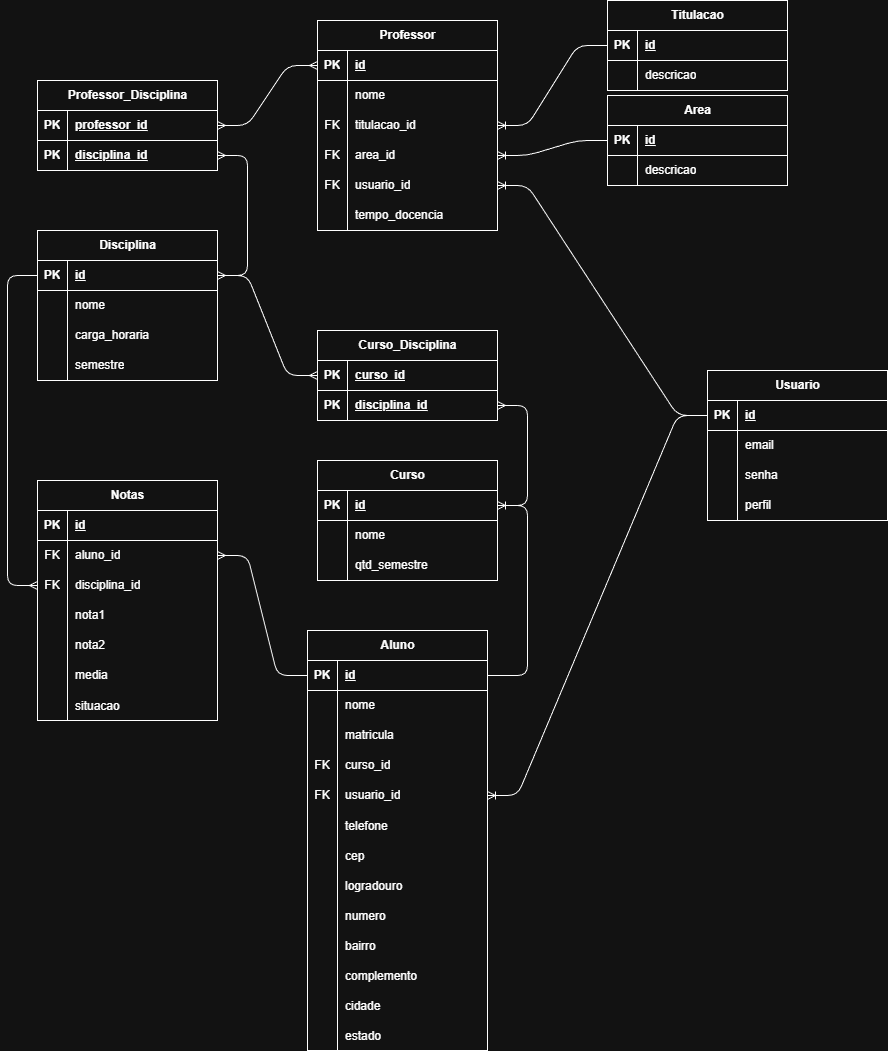
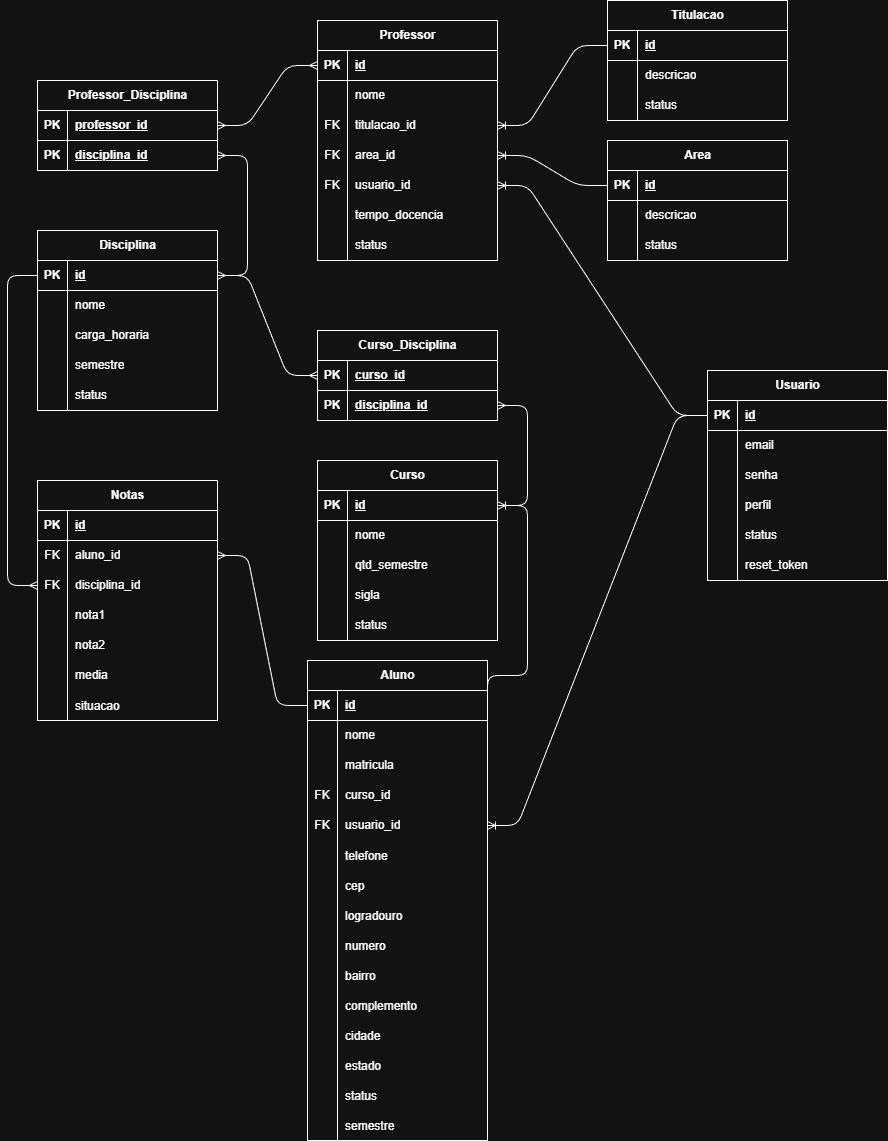
feat: atualizar dicionário de dados com novos campos e tipos para usuários, alunos, professores e disciplinas

diff --git a/docs/dicionario-dados.md b/docs/dicionario-dados.md
@@ -5,7 +5,9 @@
 | id | Int (PK) | Sim | Identificador único (Serial) |
 | email | String | Sim | E-mail para login (Unique) |
 | senha | String | Sim | Hash da senha para autenticação  |
-| perfil | String | Sim | Perfil do usuário (aluno, professor, admin)  |
+| perfil | Enum Perfil | Sim | Perfil do usuário (ALUNO, PROFESSOR, ADMIN) |
+| status | Enum STATUS | Sim | Situação do usuário (ATIVO, INATIVO) |
+| reset_token | String | Não | Token único para redefinição de senha |
 
 ## Tabela: Aluno
 
@@ -13,9 +15,9 @@
 | :--- | :--- | :--- | :--- |
 | id | Int (PK) | Sim | Identificador único do aluno  |
 | nome | String | Sim | Nome completo do aluno  |
-| matricula | String | Sim | Matrícula acadêmica única  |
+| matricula | String | Sim | Matrícula acadêmica única (Unique) |
 | curso_id | Int (FK) | Sim | Relacionamento com a tabela Curso |
-| usuario_id | Int (FK) | Sim | Relacionamento com a tabela Usuario |
+| usuario_id | Int (FK) | Sim | Relacionamento com a tabela Usuario (Unique) |
 | telefone | String | Não | Telefone de contato  |
 | cep | String | Sim | Código de Endereçamento Postal  |
 | logradouro | String | Não | Nome da rua/avenida  |
@@ -24,6 +26,8 @@
 | cidade | String | Não | Cidade  |
 | estado | String | Não | UF |
 | complemento | String | Não | Complemento do endereço |
+| status | Enum STATUS | Sim | Situação do aluno (ATIVO, INATIVO) |
+| semestre | Int | Sim | Semestre atual do aluno |
 
 ## Tabela: Professor
 
@@ -33,17 +37,19 @@
 | nome | String | Sim | Nome completo do docente  |
 | titulacao_id | Int (FK) | Sim | Relacionamento com a tabela Titulacao  |
 | area_id | Int (FK) | Sim | Relacionamento com a tabela Area  |
-| usuario_id | Int (FK) | Sim | Relacionamento com a tabela Usuario |
+| usuario_id | Int (FK) | Sim | Relacionamento com a tabela Usuario (Unique) |
 | tempo_docencia | Int | Não | Tempo de experiência em anos  |
+| status | Enum STATUS | Sim | Situação do professor (ATIVO, INATIVO) |
 
 ## Tabela: Disciplina
 
 | Campo | Tipo | Obrigatório | Descrição |
 | :--- | :--- | :--- | :--- |
 | id | Int (PK) | Sim | Identificador único da disciplina  |
-| nome | String | Sim | Nome da disciplina [cite: 60] |
+| nome | String | Sim | Nome da disciplina |
 | carga_horaria | Int | Sim | Carga horária total  |
 | semestre | Int | Sim | Semestre letivo da disciplina  |
+| status | Enum STATUS | Sim | Situação da disciplina (ATIVO, INATIVO) |
 
 ## Tabela: Notas
 
@@ -52,9 +58,9 @@
 | id | Int (PK) | Sim | Identificador único do registro  |
 | aluno_id | Int (FK) | Sim | Relacionamento com a tabela Aluno  |
 | disciplina_id | Int (FK) | Sim | Relacionamento com a tabela Disciplina  |
-| nota1 | Decimal | Não | Nota da primeira avaliação  |
-| nota2 | Decimal | Não | Nota da segunda avaliação  |
-| media | Decimal | Não | Média aritmética calculada  |
+| nota1 | Decimal(5,2) | Não | Nota da primeira avaliação  |
+| nota2 | Decimal(5,2) | Não | Nota da segunda avaliação  |
+| media | Decimal(5,2) | Não | Média aritmética calculada  |
 | situacao | String | Não | Situação final (Ex: Aprovado)  |
 
 ## Tabela: Curso
@@ -63,7 +69,9 @@
 | :--- | :--- | :--- | :--- |
 | id | Int (PK) | Sim | Identificador único do curso |
 | nome | String | Sim | Nome da graduação |
+| sigla | String | Não | Sigla do curso |
 | qtd_semestre | Int | Não | Duração total em semestres |
+| status | Enum STATUS | Sim | Situação do curso (ATIVO, INATIVO) |
 
 ## Tabela: Titulacao
 
@@ -71,6 +79,7 @@
 | :--- | :--- | :--- | :--- |
 | id | Int (PK) | Sim | Identificador único |
 | descricao | String | Sim | Descrição do título  |
+| status | Enum STATUS | Sim | Situação da titulação (ATIVO, INATIVO) |
 
 ## Tabela: Area
 
@@ -78,6 +87,7 @@
 | :--- | :--- | :--- | :--- |
 | id | Int (PK) | Sim | Identificador único |
 | descricao | String | Sim | Descrição da área  |
+| status | Enum STATUS | Sim | Situação da área (ATIVO, INATIVO) |
 
 ## Tabela: Professor_Disciplina (Associativa)
 
@@ -85,6 +95,7 @@
 | :--- | :--- | :--- | :--- |
 | professor_id | Int (FK) | Sim | Relacionamento com Professor |
 | disciplina_id | Int (FK) | Sim | Relacionamento com Disciplina |
+| chave primária | Composta | Sim | Combinação de professor_id e disciplina_id |
 
 ## Tabela: Curso_Disciplina (Associativa)
 
@@ -92,3 +103,4 @@
 | :--- | :--- | :--- | :--- |
 | curso_id | Int (FK) | Sim | Relacionamento com Curso |
 | disciplina_id | Int (FK) | Sim | Relacionamento com Disciplina |
+| chave primária | Composta | Sim | Combinação de curso_id e disciplina_id |
